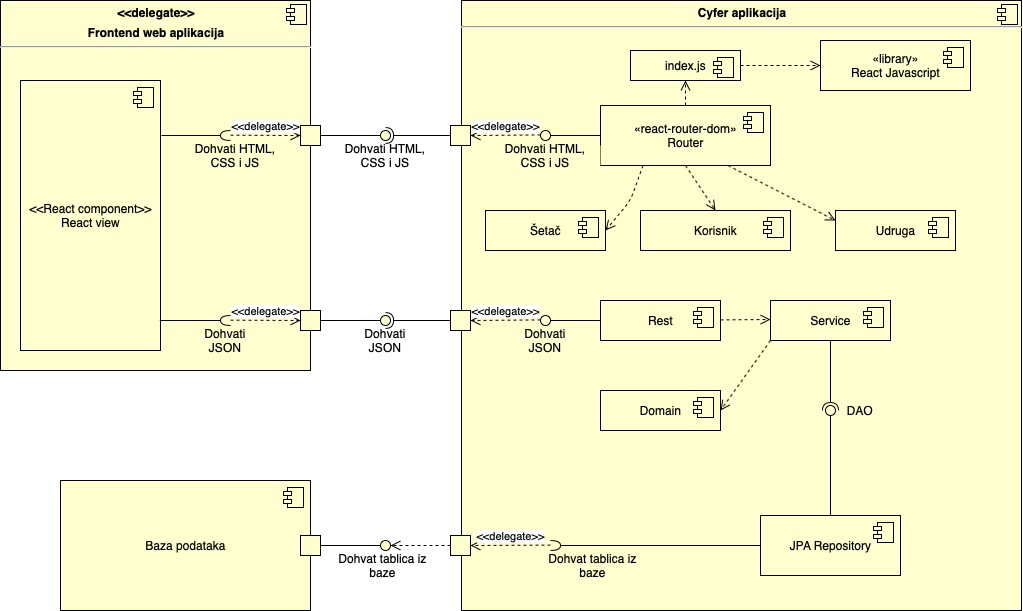
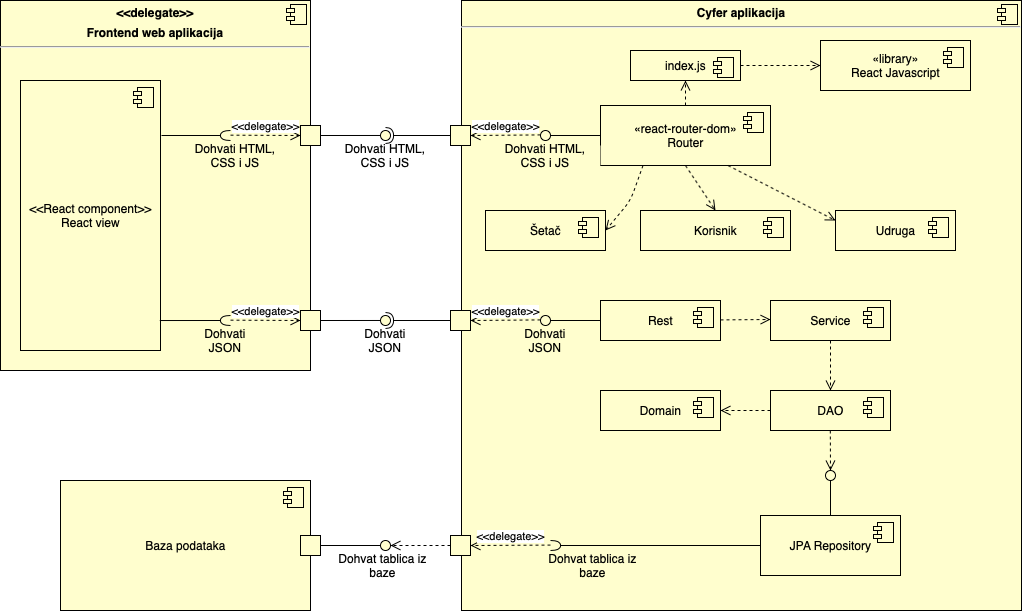
ispravljen dijagram komponenti

diff --git a/devdoc/Arhitektura.tex b/devdoc/Arhitektura.tex
@@ -365,7 +365,7 @@ React omogućava sastavljanje korisničkog sučelja pomoću elemenata koji se na
 			\eject
 		\section{Dijagram komponenti}
 		
-			React-view komponenta s aplikacijom komunicira preko dva sučelja. Jednim sučeljem dohvaća potrebne HTML, CSS i JS datoteke s \textit{frontend} dijela aplikacije. Komponenta Router je zadužena za određivanje koja će se datoteka poslužiti na sučelje. JavaScript datoteke gumbe, forme i slične gotove komponente dohvaćaju iz React biblioteke. Podacima sa \textit{backend} dijela aplikacije, tj. REST API-u se pristupa sučeljem za dohvat JSON podataka. Za dohvaćanje podataka iz baze podataka zadužen je JPA Repository.
+			React-view komponenta s aplikacijom komunicira preko dva sučelja. Jednim sučeljem dohvaća potrebne HTML, CSS i JS datoteke s \textit{frontend} dijela aplikacije. Komponenta Router je zadužena za određivanje koja će se datoteka poslužiti na sučelje. JavaScript datoteke gumbe, forme i slične gotove komponente dohvaćaju iz React biblioteke. Podacima sa \textit{backend} dijela aplikacije, tj. REST API-u se pristupa sučeljem za dohvat JSON podataka. Za dohvaćanje podataka iz baze podataka zadužen je JPA Repository, prema kojemu komponenta DAO ima ovisnost.
 			\newpage
 			\begin{figure}[H]
 				\includegraphics[width=1\textwidth]{dijagrami/Component-diagram-2.png} %veličina u odnosu na širinu linije
